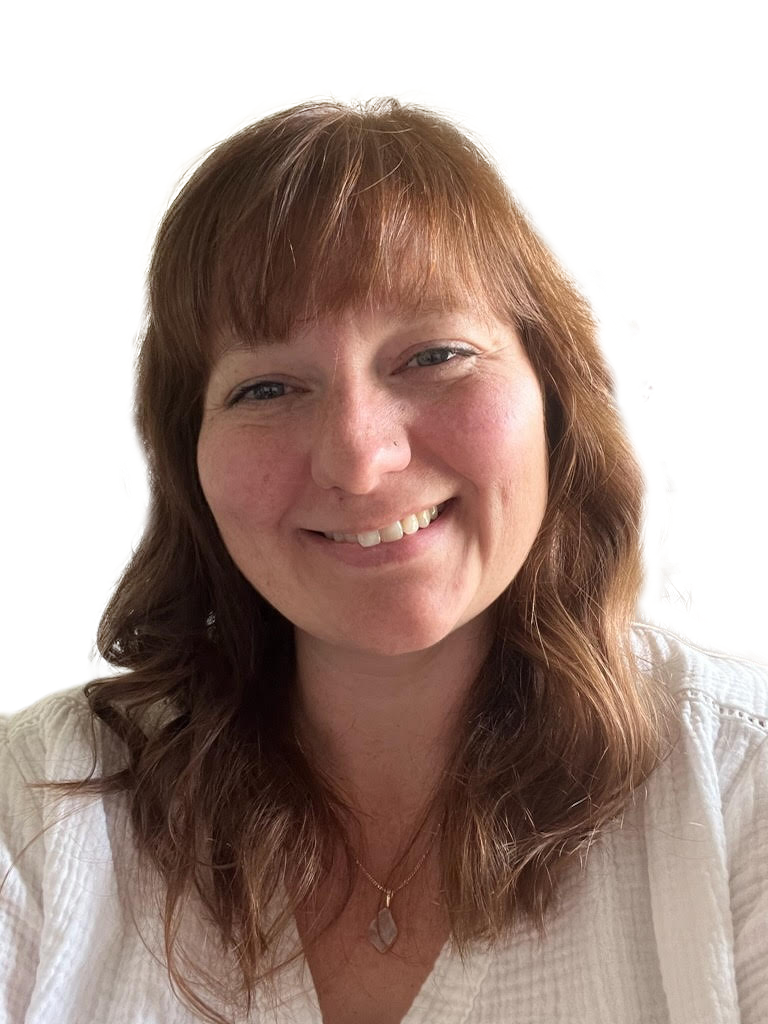
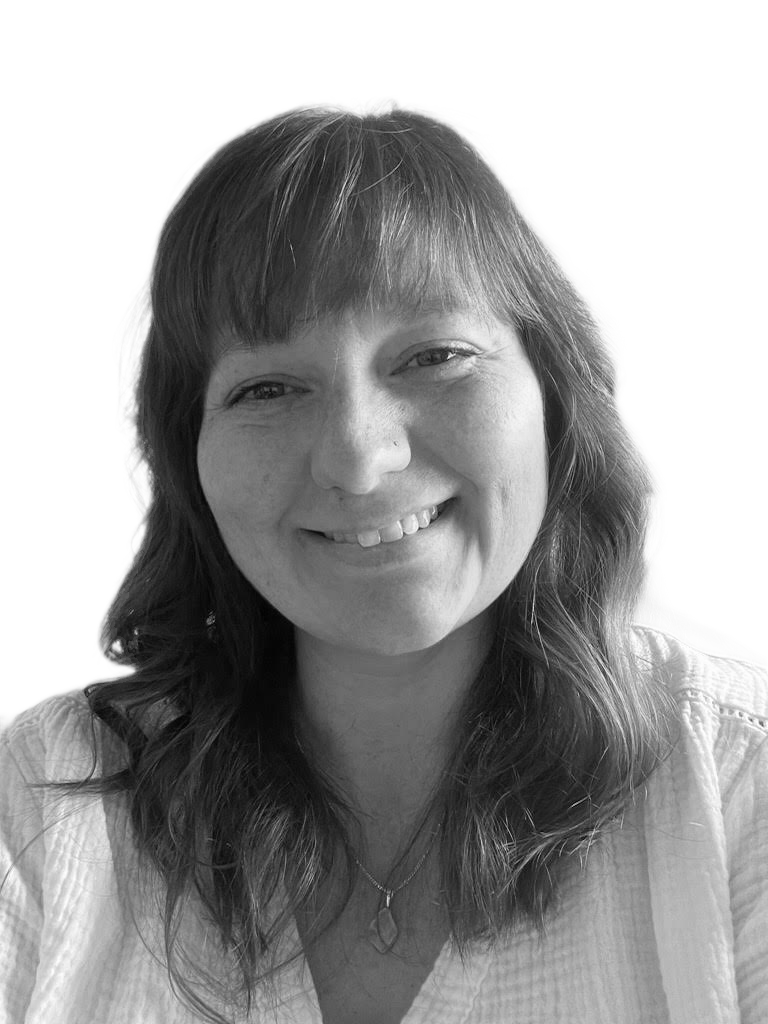
changes to the masthead - align services - photos smaller/BW/gradient background - link fixed

diff --git a/index.html b/index.html
@@ -38,14 +38,22 @@
         <!-- Masthead-->
         <header class="masthead">
             <div class="container px-4 px-lg-5 d-flex h-100 align-items-center justify-content-center">
-                <div class="d-flex justify-content-center">
+                <div class="new-container">
                     <div class="text-center">
-                        <h1 class="text-custom-title" style="font-family:Georgia, 'Times New Roman', Times, serif">IABS LLC</h1>
-                        <h2 class="text-custom">Integrated Accounting & Business Services</h2>
-                        <h2 class="text-under">~Customized services that align with your specific objectives~</h2>
-
+                        <!-- testing-->
+                        <!-- testing-->
+                        <h1 class="text-custom-title" style="font-family:Georgia, 'Times New Roman', Times, serif;text-shadow: 5px 5px 50px #000000, 0 0 2px #ffffff;">IABS LLC</h1>
+                        <h2 class="text-custom" style ="margin-left: 20px;text-align:center;text-shadow: 5px 5px 20px #000000, 0 0 2px #ffffff;">Integrated Accounting & Business Services</h2>
                         <p class="p"> </p>
+                      
+                        <div class="new-container-wide" style="width:100%; max-width:none;">
+    <!-- ... -->
+    <h2 class="text-under" style=" font-family:Georgia, 'Times New Roman', Times, serif; !important;text-shadow: 2px 2px 12px #ffffff, 0 0 2px #000000;">Customized services that align with your specific objectives</h2>
+</div>
+                        <!-- ...existing code... -->
+                         <p> </p>
                         <a class="btn btn-primary" href="#about" style="font-family:Georgia, 'Times New Roman', Times, serif">Learn more!</a>
+                      
                     </div>
                 </div>
             </div>
@@ -57,7 +65,7 @@
                     <div class="col-lg-8">
                         <h2 class="text-white mb-3" style="font-family:Georgia, 'Times New Roman', Times, serif">Our Mission</h2>
                         <p class="text-white-50" style="font-family:Georgia, 'Times New Roman', Times, serif">
-                            Bringing business solutions to support your company’s growth, success and profitability. 
+                            Empowering your company’s growth, success, and profitability through tailored business solutions. 
                         </p>
                         <h3 class="text-white mb-4" style="font-family:Georgia, 'Times New Roman', Times, serif"> Key Services</h3>
                         <ul class="text-white-50" style="font-family:Georgia, 'Times New Roman', Times, serif">
@@ -72,7 +80,6 @@
                             <li>Account structure setup in accounting software </li>
                             <li>Business startup/setup</li>
                             <li>Partner with CPA’s for tax return preparation</li>
-
                         </ul>
                         <p class="p"> </p>
                         <a class="btn btn-primary" href="#projects" style="font-family:Georgia, 'Times New Roman', Times, serif">Get to know us!</a>
@@ -82,31 +89,34 @@
             </div>
         </section>
         <!-- Projects-->
-        <section class="projects-section bg-light" id="projects">
+        <section class="projects-section blend-bg" id="projects">
             <div class="container px-4 px-lg-5">
                 <!-- Featured Project Row-->
                 <div class="row gx-0 mb-4 mb-lg-5 align-items-center">
                     <div class="col-xl-8 col-lg-7"><img class="img-fluid mb-3 mb-lg-0" src="assets/img/Debbie-01.png" width = "320px" height = "500px" alt="Debbie" /></div>
                     <div class="col-xl-4 col-lg-5">
-                        <div class="featured-text text-center text-lg-left">
+                        <div class="featured-text text-center text-lg-left" style="color: white; font-family: Georgia, 'Times New Roman', Times, serif;">
                             <h4>Debbie Pierce</h4>
-                            <p class="text-black-50 mb-0" style="font-family:Georgia, 'Times New Roman', Times, serif">
-                                Over 35 years of experience in the accounting industry
-                                Business owner for 28 years
-                                Industries served: 
-                                    <li style="font-family:Georgia, 'Times New Roman', Times, serif">Professional Services</li>
-                                    <li style="font-family:Georgia, 'Times New Roman', Times, serif">Construction</li>
-                                    <li style="font-family:Georgia, 'Times New Roman', Times, serif">Architectural/Design</li>
-                                    <li style="font-family:Georgia, 'Times New Roman', Times, serif">Property Management</li> 
-                                    <li style="font-family:Georgia, 'Times New Roman', Times, serif">Hospitality</li> 
-                                    <li style="font-family:Georgia, 'Times New Roman', Times, serif">Non-Profits</li> 
-                                    <li style="font-family:Georgia, 'Times New Roman', Times, serif">Law Firms</li>  
-                                    <li style="font-family:Georgia, 'Times New Roman', Times, serif">Real Estate</li> 
-                                    <li style="font-family:Georgia, 'Times New Roman', Times, serif">IT</li> 
-                                    <li style="font-family:Georgia, 'Times New Roman', Times, serif">Warehousing</li> 
-                                    <li style="font-family:Georgia, 'Times New Roman', Times, serif">Dealerships</li> 
-                                
-                                </p>
+                            <div style="text-align:left;">
+    <p class="text-white-50 mb-0" style="white-space: nowrap;font-family:Georgia, 'Times New Roman', Times, serif">
+        Over 35 years of experience in the accounting industry<br>
+        Business owner for 28 years<br>
+        Industries served:
+    </p>
+    <ul class="text-white-50 mb-0" style=" padding-left: 1.2em;">
+        <li>Professional Services</li>
+        <li>Construction</li>
+        <li>Architectural/Design</li>
+        <li>Property Management</li>
+        <li>Hospitality</li>
+        <li>Non-Profits</li>
+        <li>Law Firms</li>
+        <li>Real Estate</li>
+        <li>IT</li>
+        <li>Warehousing</li>
+        <li>Dealerships</li>
+    </ul>
+</div>
                         </div>
                     </div>
                 </div>
@@ -114,9 +124,9 @@
                 <div class="row gx-0 mb-4 mb-lg-5 align-items-center">
                     <div class="col-xl-8 col-lg-7"><img class="img-fluid mb-3 mb-lg-0" src="assets/img/Sarah-01.png" width = "300px" height = "500px" alt="Sarah" /></div>
                     <div class="col-xl-4 col-lg-5">
-                        <div class="featured-text text-center text-lg-right">
+                        <div class="featured-text text-center text-lg-right" style="color: white; font-family: Georgia, 'Times New Roman', Times, serif;">
                             <h4>Sarah</h4>
-                            <p class="text-black-50 mb-0" style="font-family:Georgia, 'Times New Roman', Times, serif">
+                            <p class="text-white-50 mb-0" style="font-family:Georgia, 'Times New Roman', Times, serif">
                                 Been in the accounting business for 35 years
                                 Business owner for 28 years
                                 Industries served:
@@ -185,7 +195,7 @@
                                 <i class="fas fa-envelope text-primary mb-2"></i>
                                 <h4 class="text-uppercase m-0">Email</h4>
                                 <hr class="email-bar"/>
-                                <div class="small text-black-50"><a href="mailto:info@iabs.com">info@IABS.com</a></div>
+                                <div class="small text-black-50"><a href="mailto:info@iabsllc.com">info@IABSllc.com</a></div>
                             </div>
                         </div>
                     </div>

diff --git a/css/styles.css b/css/styles.css
@@ -91,13 +91,42 @@
 .footer-copyright{
   font-size: small;
 }
-.text-under{
-  color: #3e3d53;
-  font-family: Georgia, 'Times New Roman', Times, serif;
+.small.text-black-50 a {
+    color: #311432; /* Choose your desired color */
+    text-decoration: underline; /* Optional: keeps underline */
+}
+.blend-bg {
+    background: linear-gradient(
+        to bottom,
+        #323233 0%,         /* dark gray */
+        #838da3 100%        /* light gray-blue */
+    );
+}
+.new-container {
+    margin-left: auto;
+    margin-right: auto;
+    display: block;
+    text-align: center;
+    max-width: 1000px; /* Optional: limits width for better appearance */
+}
+.textbox{
+
+  width: 1000px !important;
+  text-align: center !important;
+}
+.text-under {
+
+  border-radius: 5px;
   font-size: x-large !important;
-  display: block !important;
-  margin: auto !important;
-  white-space: nowrap !important;
+  font-weight: bolder;
+
+  color: rgb(0, 0, 0);
+  text-align: center !important;
+  display: flex;
+  margin: auto;
+  font-family: Georgia, 'Times New Roman', Times, serif;
+  align-content: center;
+  width: 1000px !important;
 }
 .small-font{
   font-size: x-small;
@@ -105,6 +134,10 @@
 .profile-pic{
   margin-left: 300px;
 
+}
+.new-container-wide {
+    width: 100%;
+    max-width: 10000;
 }
 .email-bar{
   margin-top: 1.5rem !important;
@@ -116,8 +149,8 @@
 .text-custom{
   font-size: x-large !important;
   color: whitesmoke;
-  text-align: justify;
-  display: block;
+  text-align: center !important;
+  display: flex;
   margin: auto;
   font-family: Georgia, 'Times New Roman', Times, serif;
   white-space:nowrap;
@@ -3439,7 +3472,7 @@ textarea.form-control-lg {
   --bs-dropdown-link-hover-color: #1e2125;
   --bs-dropdown-link-hover-bg: #e9ecef;
   --bs-dropdown-link-active-color: #fff;
-  --bs-dropdown-link-active-bg: #64a19d;
+  --bs-dropdown-link-active-bg: #4e344b;
   --bs-dropdown-link-disabled-color: #adb5bd;
   --bs-dropdown-item-padding-x: 1rem;
   --bs-dropdown-item-padding-y: 0.25rem;
@@ -11200,6 +11233,10 @@ body {
 
 .masthead {
   position: relative;
+  min-height: 100vh;
+  display: flex;
+  align-items: center;
+  justify-content: center !important;
   width: 100%;
   height: auto;
   min-height: 35rem;
@@ -11216,13 +11253,20 @@ body {
   line-height: 2.5rem;
   letter-spacing: 0.8rem;
   background: linear-gradient(rgba(255, 255, 255, 0.9), rgba(255, 255, 255, 0));
-  
+  margin-bottom: 0.5rem;
   -webkit-background-clip: text;
           background-clip: text;
 }
 .masthead h2, .masthead .h2 {
   max-width: 20rem;
   font-size: 1rem;
+  margin-top: 0.5rem;
+}
+.masthead .container {
+    display: flex;
+    align-items: center;
+    justify-content: center;
+    height: 100%;
 }
 @media (min-width: 768px) {
   .masthead h1, .masthead .h1 {
